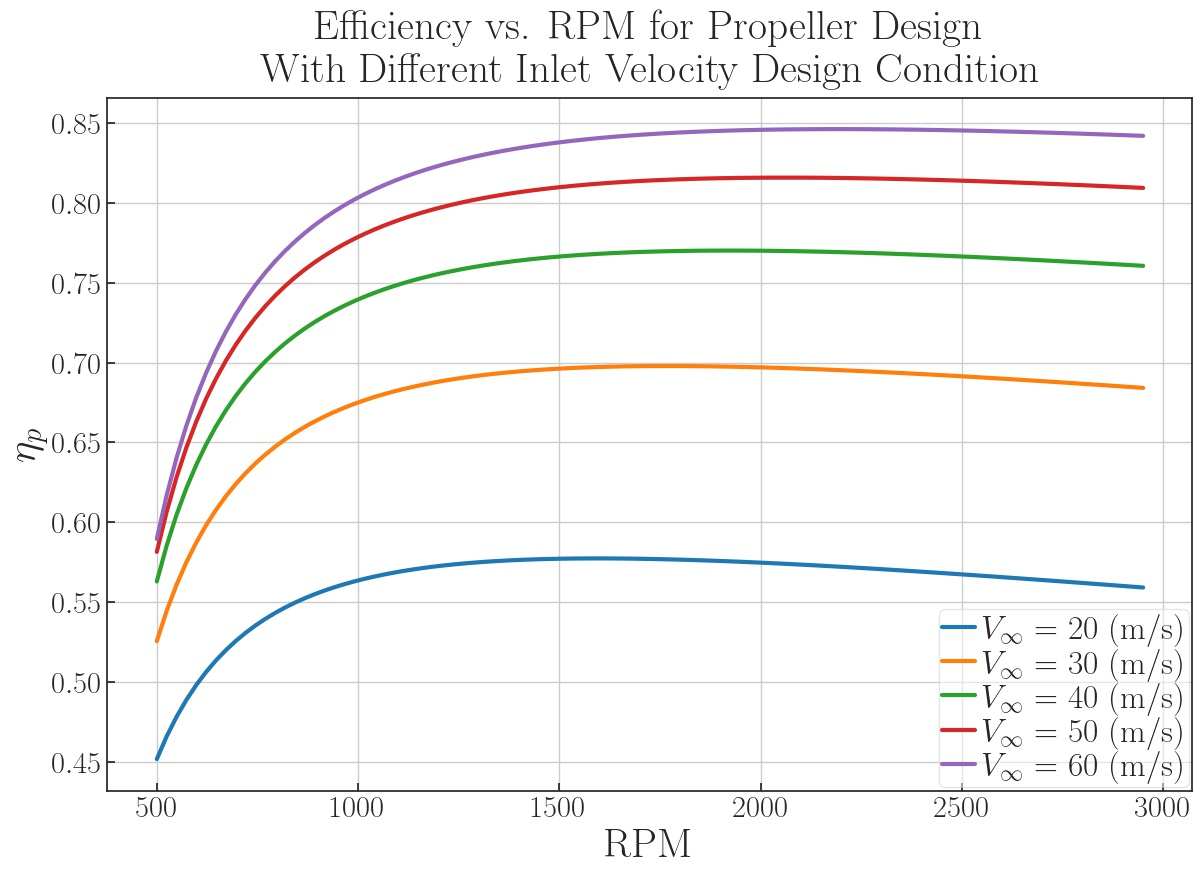
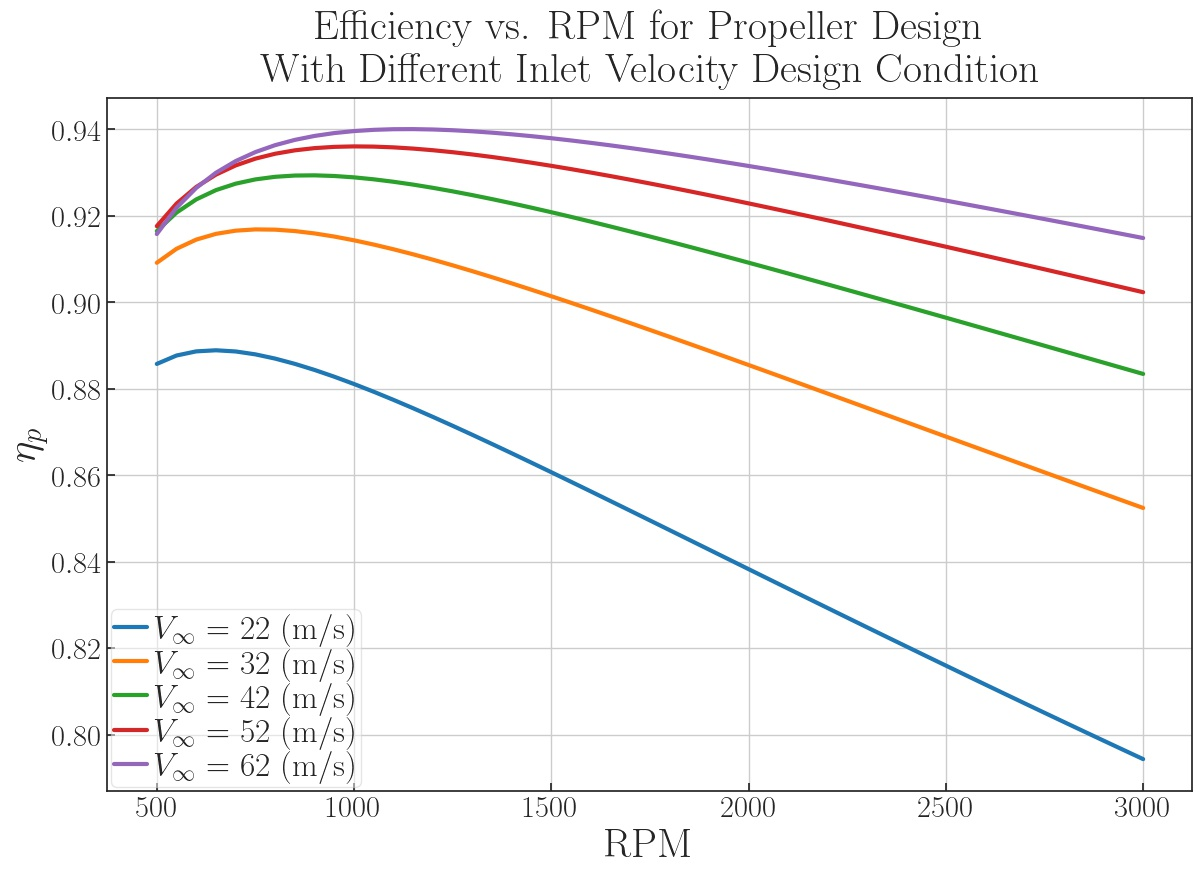
Added propeller design stuff and fixed pitch propeller analysis
TVG 02.28.2021

diff --git a/Python_Codes/prop_design_analysis.py b/Python_Codes/prop_design_analysis.py
@@ -13,6 +13,7 @@ History:
 '''
 
 from prop_design_TVG import prop_design
+from prop_analysis_TVG import prop_analysis
 import numpy
 import matplotlib.pyplot as plt
 from Class130 import AtmData, Propeller
@@ -20,18 +21,11 @@ import sys
 sys.path.append("../Utilities")
 import formatfigures
 
-try:
-    formatfigures.formatfigures()
-    latex = True
-except ValueError:
-    print("Not using latex formatting")
-    latex = False
-
 def m0_fn(Ma):
-    if Ma <= 0.9:
-        return (2 * math.pi) / numpy.sqrt(1 - Ma ** 2)
+    if numpy.any(Ma <= 0.9):
+        return (2 * numpy.pi) / numpy.sqrt(1 - Ma ** 2)
     else:
-        return (2 * math.pi) / numpy.sqrt(1 - 0.9 ** 2)
+        return (2 * numpy.pi) / numpy.sqrt(1 - 0.9 ** 2)
 
 def Cd_fn(Cl):
     return 0.0095 + 0.0040 * (Cl - 0.2) ** 2    
@@ -48,9 +42,9 @@ is_SI = True
 numB = 3
 
 radius = 1.78/2
-RPM = numpy.linspace(500,2950,nn)
+RPM = numpy.linspace(500,3000,nn)
 LD = 15
-T_req = 13000/8 #N (TOGW/(L/D))
+T_req = 13000/8/LD #N (TOGW/(L/D))
 Cl = 0.4
 alp0 = numpy.radians(-2)
 
@@ -63,7 +57,7 @@ for v_inf in range(22,72,10):
         atm = AtmData(v_inf, h, is_SI)
         atm.expand(1.4, 287)
         prop = Propeller(radius, numB, RPM[ii], eta_P, CP = 0, CT = 0, CQ = 0, Cl = 0.4,)
-        [_, _, _, P_design[ii], T_design[ii], Q_design[ii], eta_P[ii], _] = prop_design(atm, prop, T_req)
+        [_, _, _, P_design[ii], T_design[ii], Q_design[ii], eta_P[ii], _] = prop_design(atm, prop, T_req, m0_fn, Cd_fn)
     label = "$V_\infty$ = " + str(v_inf) + " (m/s)"
     plt.figure(1)
     plt.plot(RPM,Q_design,label=label)    
@@ -73,6 +67,13 @@ for v_inf in range(22,72,10):
     plt.plot(RPM,P_design,label=label)
     # plt.figure(7)
     # plt.plot(RPM,T_design,label=label)
+
+try:
+    formatfigures.formatfigures()
+    latex = True
+except ValueError:
+    print("Not using latex formatting")
+    latex = False
 
 plt.figure(1)
 plt.legend()    
@@ -95,14 +96,75 @@ plt.ylabel("Power (W)")
 plt.title("Power vs. RPM for Propeller Design \n With Different Inlet Velocity Design Condition")
 plt.savefig('./Figures/Power_vs_RPM_hover.jpg', bbox_inches='tight')
 
-plt.show()
 
-# Choose the prop design with the highest cruise efficiency
+# Choose the prop design with the highest cruise efficiency and run a fixed pitch analysis
+try:
+    formatfigures.formatsubfigures()
+    latex = True
+except ValueError:
+    print("Not using latex formatting")
+    latex = False
 m = numpy.argmax(eta_P)
 
-prop = Propeller(radius, numB, RPM[ii], eta_P, CP = 0, CT = 0, CQ = 0, Cl = 0.4,)
-[_, _, _, P_design[m], T_design[m], Q_design[m], eta_P[m], _] = prop_design(atm, prop, T_req)
+prop = Propeller(radius, numB, RPM[m], eta_P, CP = 0, CT = 0, CQ = 0, Cl = 0.4,)
+r, prop.chord, prop.bet, P_design, T_design, Q_design, eta_P, prop.theta = prop_design(atm, prop, T_req, m0_fn, Cd_fn)
+ll = 101
+Vseq = numpy.linspace(0,70,ll)
 
+J = numpy.zeros((ll,))
+Pdesign = numpy.zeros((ll,))
+CP = numpy.zeros((ll,))
+Tdesign = numpy.zeros((ll,))
+CT = numpy.zeros((ll,))
+etap = numpy.zeros((ll,))
 
+plt.figure(figsize=(13, 19.5))
 
+sp1 = plt.subplot(5,1,1)
+plt.gca().set_title("Propeller Power vs. Airspeed")
+plt.xlabel("Airspeed (m/s)")
+plt.ylabel("Propeller Power (W)")
 
+sp2 = plt.subplot(5,1,2)
+plt.gca().set_title("Propeller Power Coefficient vs. Airspeed")
+plt.xlabel("Airspeed (m/s)")
+plt.ylabel("Propeller Power Coefficient $C_P$")
+
+sp3 = plt.subplot(5,1,3)
+plt.gca().set_title("Propeller Thrust vs. Airspeed")
+plt.xlabel("Airspeed (m/s)")
+plt.ylabel("Propeller Thrust (N)")
+
+sp4 = plt.subplot(5,1,4)
+plt.gca().set_title("Propeller Thrust Coefficient vs. Airspeed")
+plt.xlabel("Airspeed (m/s)")
+plt.ylabel("Propeller Thrust Coefficient $C_T$")
+
+sp5 = plt.subplot(5,1,5)
+plt.gca().set_title("Propeller Efficiency vs. Airspeed")
+plt.xlabel("Airspeed (m/s)")
+plt.ylabel("Propeller Efficiency $\eta_p$")
+
+for RPM in range(1500, 3500, 500):
+    for ii in range(0,ll):
+        atm = AtmData(Vseq[ii], h, is_SI)
+        atm.expand(k, R)
+        prop = Propeller(radius, numB, RPM, eta_P, CP = 0, CT = 0, CQ = 0, Cl = 0.4, bet=prop.bet, chord = prop.chord)
+        J[ii], Pdesign[ii], CP[ii], Tdesign[ii], CT[ii], etap[ii] = prop_analysis(atm, prop, m0_fn, Cd_fn)
+    
+    sp1.plot(Vseq,Pdesign,label='RPM = {}'.format(RPM))
+    sp2.plot(Vseq,CP,label='RPM = {}'.format(RPM))
+    sp3.plot(Vseq,Tdesign,label='RPM = {}'.format(RPM))
+    sp4.plot(Vseq,CT,label='RPM = {}'.format(RPM))
+    sp5.plot(Vseq,etap,label='RPM = {}'.format(RPM))
+
+sp1.legend()
+sp2.legend()
+sp3.legend()
+sp4.legend()
+sp5.legend()
+
+plt.tight_layout(rect=[0, 0.03, 1, 0.92])
+plt.suptitle("Analysis of Fixed-Pitch Propeller Design with \n Various Airspeeds and RPM\n\n",fontsize=24)
+plt.savefig('./Figures/fixed_pitch_analysis.png', bbox_inches='tight')
+plt.show()

diff --git a/Utilities/formatfigures.py b/Utilities/formatfigures.py
@@ -62,14 +62,74 @@ def formatfigures():
 
 
 
-#    print('-------------------------------------------------------------------------')
-#    print('\n\n------------ Figure format has been set by formatfigures.py -------------\n\n')
-#    print('-------------------------------------------------------------------------')
+    return (colors, params)
+
+
+    
+
+
+def formatsubfigures():
+    import seaborn as sns
+
+    sns.set(style='whitegrid', font_scale=1.5, rc={'legend.frameon': True})
+
+    sns.set_style('ticks')
+
+    sns.set_style({"xtick.direction": "in", "ytick.direction": "in"})
+
+    sns.set_context(rc={'lines.markeredgewidth': 0.1})
+
+    mplcolors = ['#1f77b4', '#ff7f0e', '#2ca02c', '#d62728','#9467bd', 
+                '#8c564b', '#e377c2', '#7f7f7f', '#bcbd22', '#17becf']
+
+    sns.set_palette(mplcolors)
+
+    colors = sns.color_palette()
+
+    
+    params = {
+        # FONT SIZES
+        'axes.labelsize': 14,  # Axis Labels
+        'axes.titlesize': 18,  # Title
+        'font.size': 14,  # Textbox
+        'xtick.labelsize': 14,  # Axis tick labels
+        'ytick.labelsize': 14,  # Axis tick labels
+        'legend.fontsize': 14,  # Legend font size
+        'font.family': 'serif',
+        'font.fantasy': 'xkcd',
+        'font.serif': 'Computer Modern',
+        'font.sans-serif': 'Computer Modern Sans serif',
+        'font.monospace': 'Courier',
+
+        # AXIS PROPERTIES
+        'axes.titlepad': 2*6.0,  # title spacing from axis
+        'axes.grid': True,  # grid on plot
+        'figure.figsize': (14, 9), 
+        'savefig.bbox': 'tight',  # reduce whitespace in saved figures
+        'lines.linewidth' : 2,
+
+        # LEGEND PROPERTIES
+        'legend.framealpha': 0.5,
+        'legend.fancybox': True,
+        'legend.frameon': True,
+        'legend.numpoints': 1,
+        'legend.scatterpoints': 1,
+        'legend.borderpad': 0.1,
+        'legend.borderaxespad': 0.1,
+        'legend.handletextpad': 0.2,
+        'legend.handlelength': 1.0,
+        'legend.labelspacing': 0,
+    }
+
+    import matplotlib
+    matplotlib.rcParams.update(params)
+    # print('Function has run')
+    from matplotlib import rc
+    rc('font', **{'family': 'serif', 'serif': ['Computer Modern']})
+    rc('text', usetex=True)
+
 
 
     return (colors, params)
-    
-
-    
 
 

diff --git a/Python_Codes/Class130.py b/Python_Codes/Class130.py
@@ -129,7 +129,7 @@ class AtmData:
 class Propeller:
     # All in base SI units
     def __init__(self, radius, numB, RPM, eta_P, CP, CT, CQ, Cl, chord = 1, alp0 = 0,
-                 alpha = None, beta = None, theta = None, phi = None):
+                 alp = None, bet = None, the = None, phi = None):
         self.radius = radius  # propeller radius (m)
         self.RPM = RPM  # rotation per minute
         self.eta_P = eta_P  # propeller efficiency
@@ -140,9 +140,9 @@ class Propeller:
         self.chord = chord  # chord distr. (m)
         self.numB = numB  # number of blades
         self.alp0 = alp0  # zero-lift AoA (rad)
-        self.alp = alpha  # AoA distr. (rad)
-        self.bet = beta  # pitch angle distr. (rad)
-        self.the = theta  # induced angle distr. (rad)
+        self.alp = alp  # AoA distr. (rad)
+        self.bet = bet  # pitch angle distr. (rad)
+        self.the = the  # induced angle distr. (rad)
         self.phi = phi  # blade angle distr. (rad)
 
 # Airfoil information

diff --git a/Python_Codes/prop_analysis_TVG.py b/Python_Codes/prop_analysis_TVG.py
@@ -136,9 +136,6 @@ def prop_analysis(AtmData, Propeller, m0_fn, Cd_fn):
     Qdesign = CQ * rho * n**2 * D**5
         
     return J, Pdesign, CP, Tdesign, CT, etap
-    
-
-
 
 
 if __name__ == "__main__":
